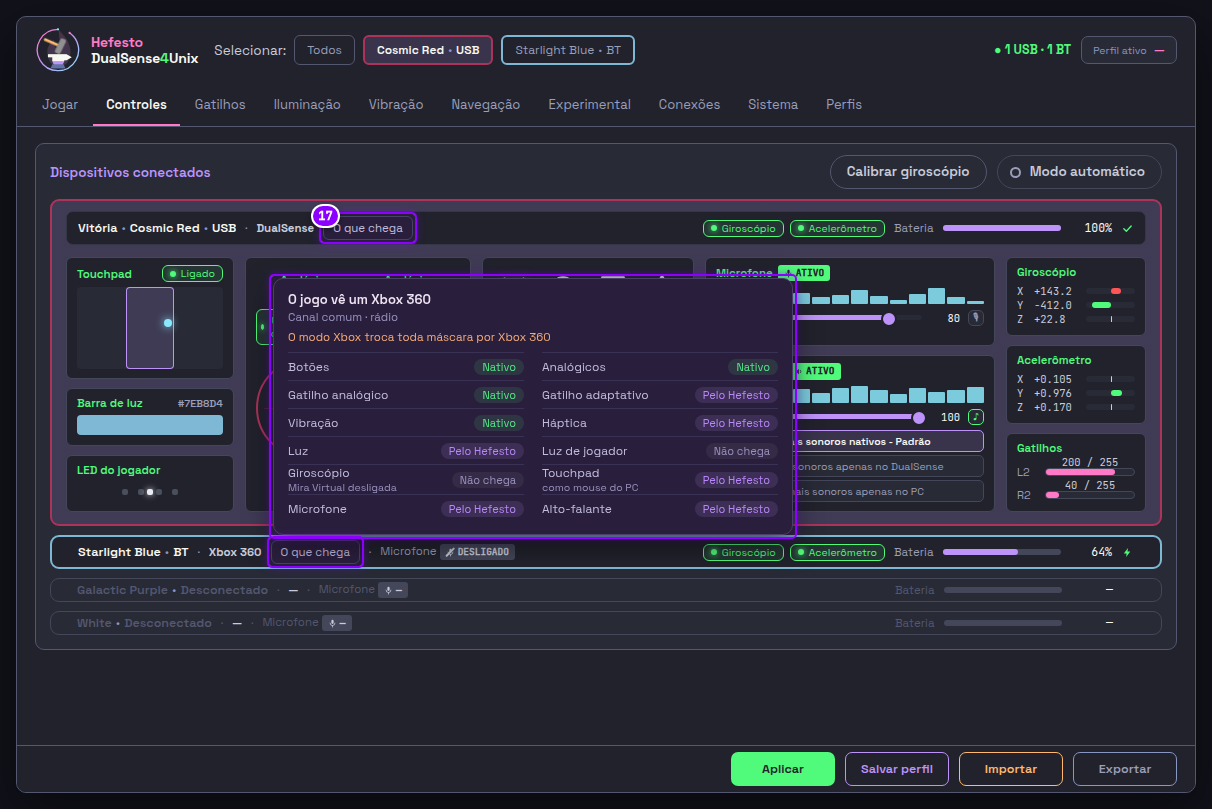
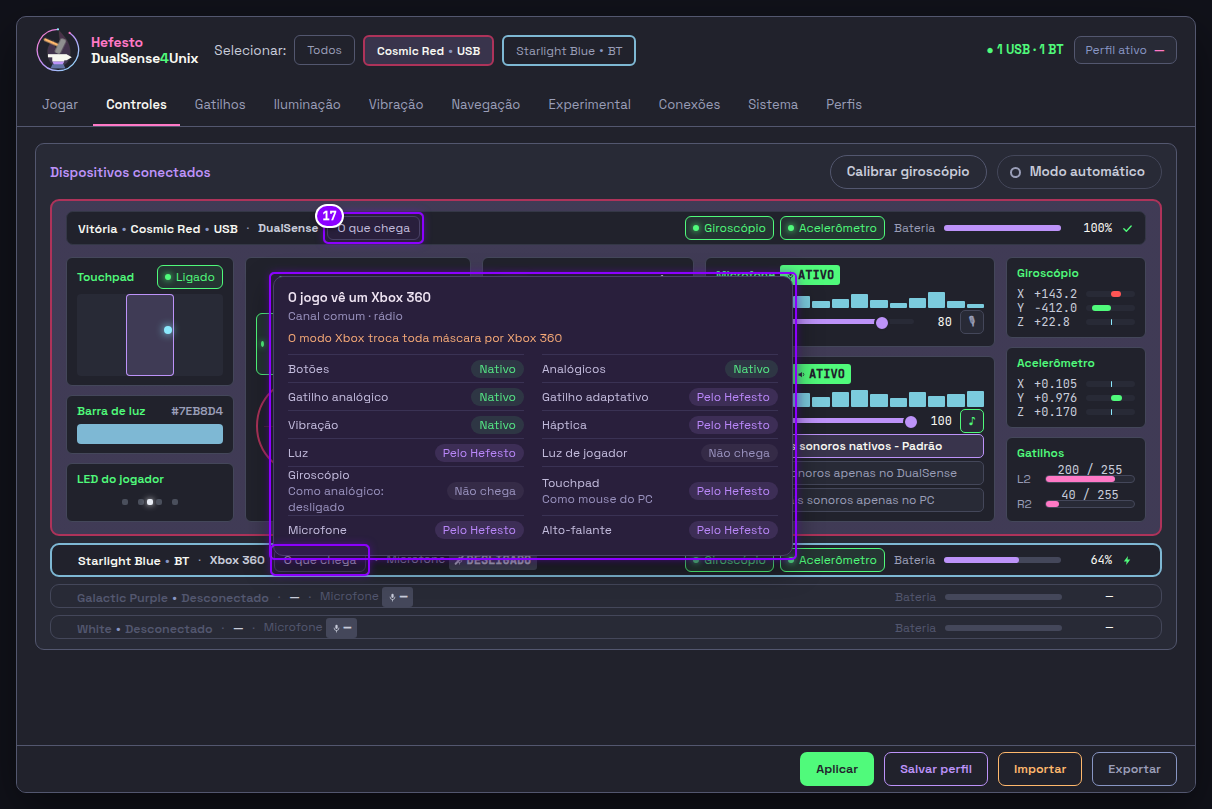
docs(mockups): na rodada 4 a Controles nasce com alvos de 24 px e letra de 12 px
A resposta das 23h40 (botões e letra) vira o padrão da página; ?alvos=hoje mostra a tela sem a mudança. No «O que chega», o giroscópio diz «Como analógico: desligado» e o touchpad «Como mouse do PC», e o JSON lista as doze funções.

diff --git a/docs/research/2026-10-12-a-volta/paginas/todo-das-abas/todo/rodada-4/02-controles.html b/docs/research/2026-10-12-a-volta/paginas/todo-das-abas/todo/rodada-4/02-controles.html
@@ -1035,7 +1035,7 @@ button[data-dica],a[data-dica],select[data-dica],input[data-dica],[role="button"
 .jv-fn small{display:block;color:var(--texto-mudo);font-size:10.5px}
 </style>
 <style data-todo-css="alvos-r4">
-/* Rodada 4: ?alvos=a dá 24 px a todo alvo de toque, com a mesma letra; ?alvos=b dá os 24 px e o piso de 12 px na letra. */
+/* Rodada 4: a sua resposta de 13/10 (~23h40), botões e letra: todo alvo de toque com 24 px e nenhuma letra abaixo de 12 px. ?alvos=hoje mostra a tela sem a mudança. */
 html.alvos-24 :is(button,select,input:not([type=checkbox]):not([type=radio]):not([type=hidden]),textarea,summary,[role=button],.nj-tog,.sw,.passo,label.faixa,.nav-i,.mudo-i,.padrao-i){min-height:24px;box-sizing:border-box}
 html.alvos-24 :is(button,[role=button],.nj-tog,.passo,.nav-i,.mudo-i,.padrao-i){min-width:24px}
 html.alvos-24 :is(input[type=checkbox],input[type=radio]):not(.radio-mesa){min-width:24px;min-height:24px}
@@ -2326,7 +2326,7 @@ document.querySelectorAll('.seg-criar').forEach(s => s.addEventListener('click',
   document.addEventListener('click', e => { if (!e.target.closest('.menu-hefesto')) document.querySelectorAll('.menu-hefesto.vivo').forEach(m => m.remove()); });
 })();
 </script>
-<div class="jv-pop" id="jv-pop" role="dialog" aria-label="O que chega ao jogo" hidden data-todo="17"><h4>O jogo vê um Xbox 360</h4><div class="jv-sub">Canal comum · rádio</div><div class="jv-mot">O modo Xbox troca toda máscara por Xbox 360</div><div class="jv-grade"><div class="jv-fn"><span>Botões</span><em class="n">Nativo</em></div><div class="jv-fn"><span>Analógicos</span><em class="n">Nativo</em></div><div class="jv-fn"><span>Gatilho analógico</span><em class="n">Nativo</em></div><div class="jv-fn"><span>Gatilho adaptativo</span><em class="h">Pelo Hefesto</em></div><div class="jv-fn"><span>Vibração</span><em class="n">Nativo</em></div><div class="jv-fn"><span>Háptica</span><em class="h">Pelo Hefesto</em></div><div class="jv-fn"><span>Luz</span><em class="h">Pelo Hefesto</em></div><div class="jv-fn"><span>Luz de jogador</span><em class="x">Não chega</em></div><div class="jv-fn"><span>Giroscópio<small>Mira Virtual desligada</small></span><em class="x">Não chega</em></div><div class="jv-fn"><span>Touchpad<small>como mouse do PC</small></span><em class="h">Pelo Hefesto</em></div><div class="jv-fn"><span>Microfone</span><em class="h">Pelo Hefesto</em></div><div class="jv-fn"><span>Alto-falante</span><em class="h">Pelo Hefesto</em></div></div></div><script data-aba="o-jogo-ve-02-r4">
+<div class="jv-pop" id="jv-pop" role="dialog" aria-label="O que chega ao jogo" hidden data-todo="17"><h4>O jogo vê um Xbox 360</h4><div class="jv-sub">Canal comum · rádio</div><div class="jv-mot">O modo Xbox troca toda máscara por Xbox 360</div><div class="jv-grade"><div class="jv-fn"><span>Botões</span><em class="n">Nativo</em></div><div class="jv-fn"><span>Analógicos</span><em class="n">Nativo</em></div><div class="jv-fn"><span>Gatilho analógico</span><em class="n">Nativo</em></div><div class="jv-fn"><span>Gatilho adaptativo</span><em class="h">Pelo Hefesto</em></div><div class="jv-fn"><span>Vibração</span><em class="n">Nativo</em></div><div class="jv-fn"><span>Háptica</span><em class="h">Pelo Hefesto</em></div><div class="jv-fn"><span>Luz</span><em class="h">Pelo Hefesto</em></div><div class="jv-fn"><span>Luz de jogador</span><em class="x">Não chega</em></div><div class="jv-fn"><span>Giroscópio<small>Como analógico: desligado</small></span><em class="x">Não chega</em></div><div class="jv-fn"><span>Touchpad<small>Como mouse do PC</small></span><em class="h">Pelo Hefesto</em></div><div class="jv-fn"><span>Microfone</span><em class="h">Pelo Hefesto</em></div><div class="jv-fn"><span>Alto-falante</span><em class="h">Pelo Hefesto</em></div></div></div><script data-aba="o-jogo-ve-02-r4">
 /* Rodada 4: o botão «O que chega» abre a lista das doze funções; ?estado=o-que-chega já a abre. */
 document.addEventListener('DOMContentLoaded', () => {
   const pop = document.getElementById('jv-pop');
@@ -2338,10 +2338,8 @@ document.addEventListener('DOMContentLoaded', () => {
 </script>
 <script data-aba="alvos-r4">
 (function () {
-  var o = new URLSearchParams(location.search).get('alvos');
-  if (!o) return;
+  if (new URLSearchParams(location.search).get('alvos') === 'hoje') return;
   document.documentElement.classList.add('alvos-24');
-  if (o !== 'b') return;
   document.documentElement.classList.add('letra-12');
   function piso() {
     document.querySelectorAll('body *').forEach(function (e) {
